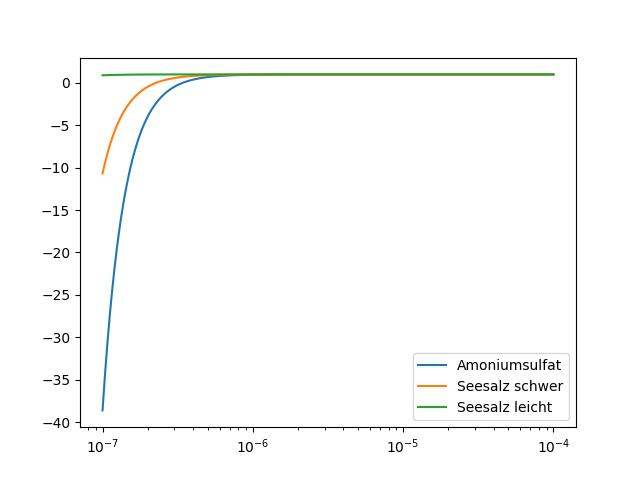
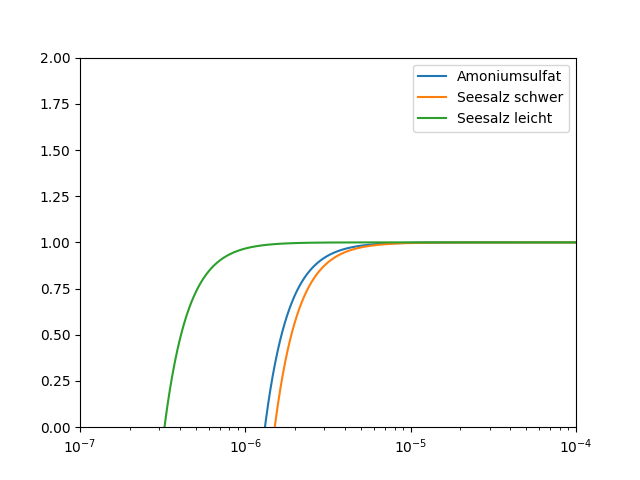
goose

diff --git a/Übung2/Steding-Alexander-wp02.py b/Übung2/Steding-Alexander-wp02.py
@@ -15,8 +15,8 @@ for r in  np.arange(100*10**(-9),100*10**(-6),1*10**(-9)):
     v=3
     masse=10**(-19)
     molmasse=  0.13214
-    B= v*masse*molmasse
-    s= 1+ (A/r) -(B/r**3)
+    B= v*masse*molmasse**(-1)
+    s= 1+ (A/r) -(B/(r**3))
     amo=np.append(amo,s)
 
 #Seesalzschwer
@@ -24,8 +24,8 @@ for r in  np.arange(100*10**(-9),100*10**(-6),1*10**(-9)):
     v=2
     masse=10**(-19)
     molmasse=  0.05844 
-    B= v*masse*molmasse
-    s= 1+ (A/r) -(B/r**3)
+    B= v*masse*molmasse**(-1)
+    s= 1+ (A/r) -(B/(r**3))
     seesalzschwer=np.append(seesalzschwer,s)
 
 #Seesalzleicht
@@ -33,14 +33,15 @@ for r in  np.arange(100*10**(-9),100*10**(-6),1*10**(-9)):
     v=2
     masse=10**(-21)
     molmasse=  0.05844 
-    B= v*masse*molmasse
-    s= 1+ (A/r) -(B/r**3)
+    B= v*masse*molmasse**(-1)
+    s= 1+ (A/r) -(B/(r**3))
     seesalzleicht=np.append(seesalzleicht,s)
 
 
 plt.plot(rad,amo,label="Amoniumsulfat")
 plt.plot(rad,seesalzschwer,label="Seesalz schwer")
 plt.plot(rad,seesalzleicht,label="Seesalz leicht")
+plt.axis([10**-7,10**-4,0,2])
 plt.xscale("log")
 plt.legend()
 plt.savefig("test.png")
